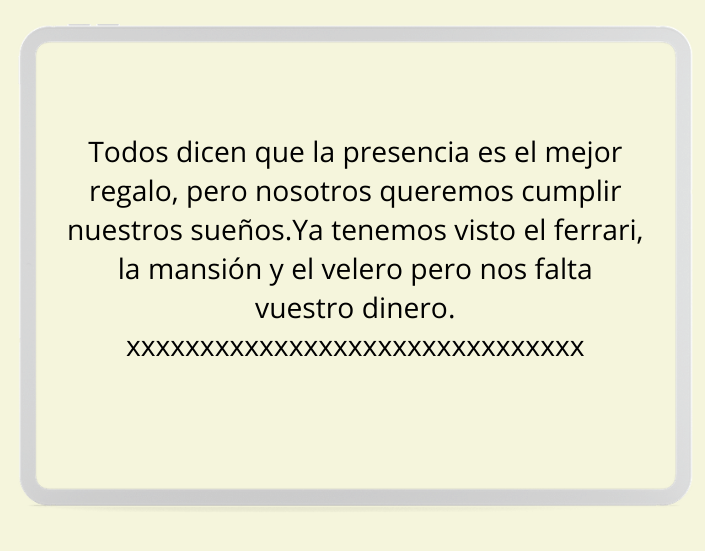
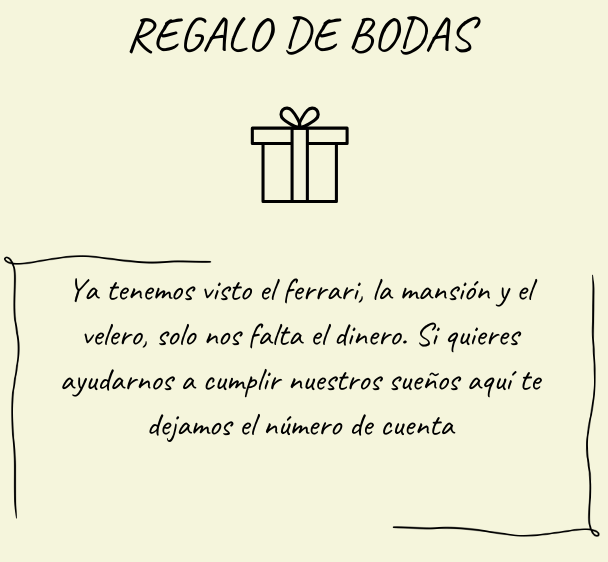
N Cuenta

diff --git a/index.css b/index.css
@@ -73,10 +73,28 @@ body {
     margin-top: -10px; /* Ajusta el espacio entre la imagen y el texto superior */
 }
 
-.foto4 {
-    width: 350px;
+.foto4-container {
+    position: relative; /* Permite que los elementos absolutos se posicionen en relación con este contenedor */
+    display: inline-block;
+    width: 100%; /* Ajusta según el tamaño de la imagen */
+    max-width: 500px; /* Opcional: controla el ancho máximo */
+}
+
+.foto4-container img {
+    display: block;
+    width: 100%; /* Asegura que la imagen ocupe todo el ancho disponible */
     height: auto;
-    margin-top: -10px; /* Ajusta el espacio entre la imagen y el texto superior */
+}
+
+.foto4-container .texto-encima {
+    position: absolute;
+    bottom: 30px; /* Coloca el texto un poco por encima del borde inferior */
+    left: 50%; /* Centra horizontalmente el texto */
+    transform: translateX(-50%);
+    color: black; /* El color del texto es negro */
+    font-size: 13px; /* Ajusta el tamaño del texto según sea necesario */
+    text-align: center;
+    font-family:Georgia, 'Times New Roman', Times, serif
 }
 
 .foto5 {

diff --git a/index.html b/index.html
@@ -26,9 +26,10 @@
         <p class="lugar">Hacienda La Bodeguilla</p>
         <p class="calle">A-8052, km. 1, 8, 41927 Bollullos de la Mitación, Sevilla</p>
         <p><a href="https://maps.app.goo.gl/bdqRxWSG2Sdu2q17A" target="_blank">Ver en Google Maps</a></p>
-        <p class="regalos">LIsta de Bodas</p>
-        <img src="images/regalos.png" alt="Foto iglesia" class="foto3">
-        <img src="images/dinero.png" alt="Foto dinero" class="foto4">
+        <div class="foto4-container">
+            <img src="images/dinero.png" alt="Foto dinero" class="foto4">
+            <p class="texto-encima">ES80 1465 0100 9717 4491 2963</p>
+        </div>
 
     </div>
 
